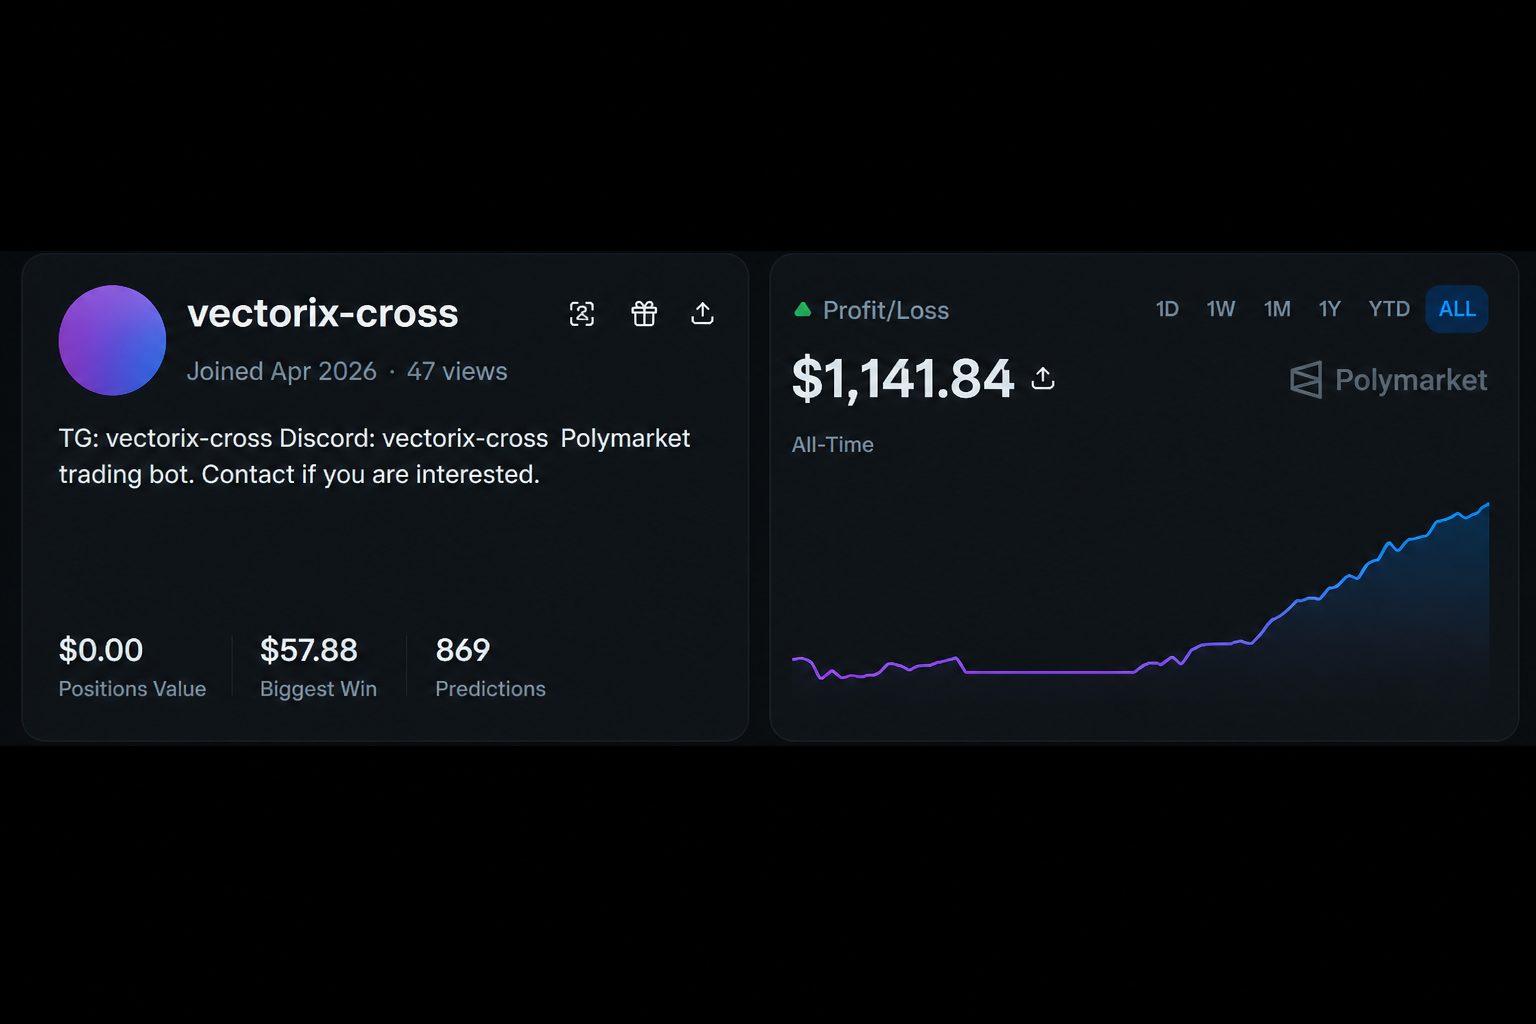
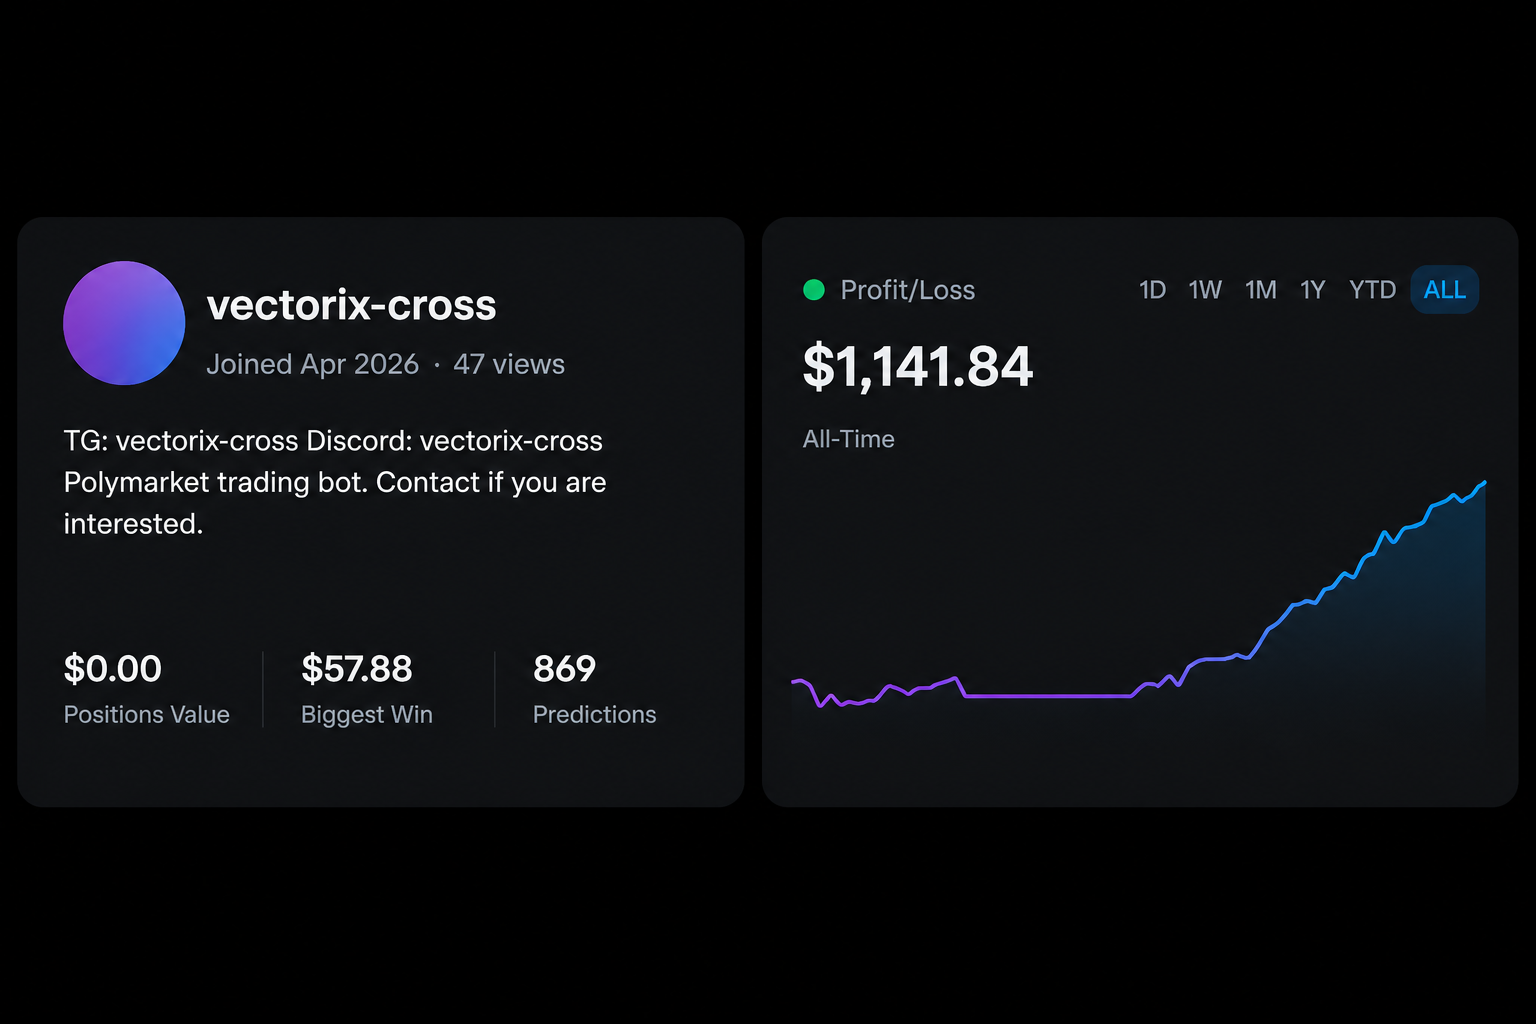
update-4

diff --git a/README.md b/README.md
@@ -33,13 +33,6 @@ If you want a custom strategy or a production deployment, contact Vectorix.
 
 Designed for arbitrage, directional strategies, and ultra-short-term markets (including 5-minute and 15-minute rounds), this bot framework provides a robust foundation for building and scaling automated trading strategies on Polymarket .
 
-## Demo Video
-
-
-<img width="628" height="416" alt="Vectorix Polymarket trading bot video" src="docs/assets/vectorix-video-thumb.png" />
-
-
-
 ## Paper engine (this repo)
 
 ```bash
@@ -134,7 +127,7 @@ With approximately $2,500 recommended starting capital, the bot is optimized for
 
 
 
-<img width="1536" height="1024" alt="polymarket Arbitrage Momentum bot" src="https://github.com/user-attachments/assets/90775627-4222-4d74-822e-1f295d1af12c" />
+<img width="1536" height="1024" alt="Vectorix Polymarket Arbitrage Momentum bot" src="docs/assets/vectorix-momentum.png" />
 
 <img width="300" height="160" alt="ma-bot-1" src="https://github.com/user-attachments/assets/12b6d8a2-cb71-4f53-a602-b495031166b4" />
 
@@ -146,13 +139,6 @@ With approximately $2,500 recommended starting capital, the bot is optimized for
 
 <img width="808" height="176" alt="ma-bot-5" src="https://github.com/user-attachments/assets/baea0866-ee90-4f77-ba10-364715979e85" />
 
-
----
-
-And you can watch this bot running video with this.
-
-
-<img width="1801" height="874" alt="Vectorix momentum arbitrage bot running" src="https://github.com/user-attachments/assets/8d2c7930-bdcd-4aaa-8a82-95bc33404ace" />
 
 ---
 
@@ -169,7 +155,7 @@ When a high-confidence reversal signal is detected, the bot automatically enters
 
 The goal is to capture short-term inefficiencies created by sudden market reversals while maintaining systematic, data-driven execution.
 
-<img width="1536" height="1024" alt="Polymarket Twap Reversal Bot" src="https://github.com/user-attachments/assets/b966db29-89f7-49a2-bad3-bc4cddb02425" />
+<img width="1536" height="1024" alt="Vectorix Polymarket Twap Reversal Bot" src="docs/assets/vectorix-twap.png" />
 
 
 
@@ -185,9 +171,9 @@ The goal is to capture short-term inefficiencies created by sudden market revers
 
 This Polymarket TWAP winning token sniper bot targets short-duration (5- and 15-minute) crypto prediction markets on Polymarket, sniping the high-probability winning token near resolution when the underlying asset has clearly moved away from the reference price. It confirms direction using both live spot price and Chainlink TWAP, estimates win probability, and only buys when the executable order-book price still offers positive expected edge after costs. Strict risk checks, data freshness validation, and latency-aware execution keep the strategy systematic rather than a simple “buy the winner” approach.
 
-<img width="1168" height="784" alt="polymarket-TWAP-Token-Sniper" src="https://github.com/user-attachments/assets/3e063383-e572-4543-9985-a132a26a6ca6" />
+<img width="1168" height="784" alt="Vectorix polymarket-TWAP-Token-Sniper" src="docs/assets/vectorix-sniper1.png" />
 
-<img width="1536" height="1024" alt="Polymarket TWAP Winning-Token Sniper Bot" src="https://github.com/user-attachments/assets/98f853b8-73a6-46cc-af83-939a7b8f5f0d" />
+<img width="1536" height="1024" alt="Vectorix Polymarket TWAP Winning-Token Sniper Bot" src="docs/assets/vectorix-sniper2.png" />
 
 ---
 ### Result Screenshot
@@ -202,12 +188,7 @@ This Polymarket TWAP winning token sniper bot targets short-duration (5- and 15-
 ## 4. Polymarket Endcycle Sniper bot (Introduction)
 
 Polymarket Endcycle Sniper Bot is an automated trading system designed to monitor short-duration prediction markets and execute high-probability trades near the end of each 5-minute epoch. It connects to the orderbook in real time, triggers buys when prices exceed a configured threshold (e.g., 0.95), manages risk with optional exits or hedging, and redeems winning positions automatically after market resolution. 🚀📈
-<img width="1098" height="728" alt="polymarket-endcycle-sniper-bot" src="https://github.com/user-attachments/assets/f2f83308-c9cd-4c71-9cf6-10fcbe8e1e63" />
-
-
-### Recording Video
-
-https://github.com/user-attachments/assets/b038aa3b-e42b-4f72-ac5d-a130cdb56a9f
+<img width="1098" height="728" alt="Vectorix polymarket-endcycle-sniper-bot" src="docs/assets/vectorix-endcycle.png" />
 
 ---
 ### Running Bot Screenshot
@@ -244,7 +225,7 @@ https://github.com/user-attachments/assets/b038aa3b-e42b-4f72-ac5d-a130cdb56a9f
 
 BTC Liquidity Momentum Arbitrage Bot is a Polymarket trading bot that monitors the BTC 5-minute Up/Down markets by analyzing real-time order book liquidity instead of relying only on price movements. It detects sudden shifts in buying or selling pressure using an order-book influence metric and confirms the signal with the difference between the live Bitcoin spot price and the market's strike price before placing its first trade (Buy1). After the initial order is filled, the bot immediately attempts to buy the opposite side (Buy2) at a calculated complementary price so the combined position costs about $0.95 while redeeming for $1.00 at market settlement. Rather than acting as a last-second sniper, This is a market microstructure strategy that exploits temporary liquidity imbalances and order-flow inefficiencies throughout most of the five-minute trading window.
 
-<img width="1536" height="1024" alt="BTC liquidity momentum bot" src="https://github.com/user-attachments/assets/a5179323-d92c-40a7-ba26-e9760012daba" />
+<img width="1536" height="1024" alt="Vectorix BTC liquidity momentum bot" src="docs/assets/vectorix-liq.png" />
 
 ### Result Screenshort
 
@@ -260,7 +241,7 @@ Polymarket BTC & ETH Hug Bot is a signal-driven trading system designed for shor
 
 The system combines real-time market monitoring, signal analysis, and automated execution to capture recurring market inefficiencies. Historical testing and live observations have demonstrated a consistently high win rate, making the bot a specialized framework for researching and trading momentum-driven prediction market opportunities.
 
-<img width="1536" height="1024" alt="Polymarket-BTC-ETH-HUG-Bot" src="https://github.com/user-attachments/assets/ebbc4c31-0587-4b25-889f-39b8f8825ed1" />
+<img width="1536" height="1024" alt="Vectorix Polymarket-BTC-ETH-HUG-Bot" src="docs/assets/vectorix-hug.png" />
 
 ### Result Screenshort
 
@@ -283,7 +264,7 @@ A trading bot for Polymarket’s 5-minute BTC markets that exploits the relation
 systematically capture inefficiencies, achieving a consistently high win rate under defined conditions.
 
 
-<img width="1024" height="683" alt="Polymarket-Trading-Bot-5m-price-field" src="https://github.com/user-attachments/assets/64bb8b58-8599-4bfd-962f-bbb9489ce519" />
+<img width="1024" height="683" alt="Vectorix Polymarket-Trading-Bot-5m-price-field" src="docs/assets/vectorix-pricefield.png" />
 
 ### Result Screenshort
 
@@ -305,7 +286,7 @@ Polymarket Sticky Trading Bot is an automated trading system that exploits short
 
 market signals (e.g., YES > 0.9) to identify lagging markets, executing trades that capture the rapid convergence as probabilities realign.
 
-<img width="1020" height="677" alt="Polymarket-Trading-Bot-Sticky" src="https://github.com/user-attachments/assets/41dcf35b-14dd-444d-9f87-fbb2ea6464da" />
+<img width="1020" height="677" alt="Vectorix Polymarket-Trading-Bot-Sticky" src="docs/assets/vectorix-sticky.png" />
 
 ## Result Screenshot
 
@@ -328,11 +309,7 @@ An open-source bot that automatically copies trades from top Polymarket traders 
 
 Whether you're new to prediction markets or you want to scale your copy-trading across multiple wallets, this bot is built to be **simple to run**, **transparent**, and **under your control**.
 
-<img width="1100" height="726" alt="polymarket-copy-trading-bot" src="https://github.com/user-attachments/assets/82243a0b-f4ec-47f0-b7cd-326e0b0e2a27" />
-
-### Recording Video
-
-https://github.com/user-attachments/assets/1bf1babc-8aa6-4be0-b1ec-4e193f52b965
+<img width="1100" height="726" alt="Vectorix polymarket-copy-trading-bot" src="docs/assets/vectorix-copy.png" />
 
 ---
 
@@ -341,7 +318,7 @@ https://github.com/user-attachments/assets/1bf1babc-8aa6-4be0-b1ec-4e193f52b965
 Polymarket Arbitrage Lost token Sniper bot automates a trading workflow on Polymarket short-interval markets (e.g., BTC/ETH/SOL/XRP 5-minute “up/down” epochs). It allocates capital into YES and NO positions, monitors order books in real time, and strategically exits the predicted losing side token before market resolution to optimize returns. The core edge lies in the model’s ability to accurately identify the losing token, enabling consistent profit capture when combined prices exceed $1.
 
 
-<img width="1082" height="718" alt="polymarket-trading-bot-lost-token-sniper" src="https://github.com/user-attachments/assets/a664f94a-ea48-4080-a3e3-972e295d27d1" />
+<img width="1082" height="718" alt="Vectorix polymarket-trading-bot-lost-token-sniper" src="docs/assets/vectorix-lost.png" />
 
 ### Result Screenshort
 <img width="804" height="447" alt="polymarket-trading-bot-lost-token-sniper" src="https://github.com/user-attachments/assets/0582e172-fea6-4986-af78-4d8ddc4c85d9" />
@@ -355,7 +332,7 @@ Polymarket Arbitrage Lost token Sniper bot automates a trading workflow on Polym
 ## 11. Polymarket Arbitrage Bot (101 cents Sniper) : (Introduction)
 
 Polymarket Arbitrage 101 Bot is a professional Polymarket liquidity maker bot designed for short-interval (e.g., 5-minute) binary markets, automating the full cycle of splitting USDC into YES/NO tokens, placing balanced limit orders, and dynamically managing positions in real time. It targets a consistent edge by structuring trades so each YES/NO pair aims to return a combined value of 1.01 (101 cents) per cycle, while applying adaptive adjustments and risk controls as market conditions evolve. Built for multi-chain compatibility and continuous 24/7 operation, it supports live, dry-run, and paper trading modes for both production use and safe strategy testing.
-<img width="1124" height="742" alt="Polymarket-trading-bot-arbitrage-101" src="https://github.com/user-attachments/assets/73737f09-ba30-4955-85a2-057e84b0ef3d" />
+<img width="1124" height="742" alt="Vectorix Polymarket-trading-bot-arbitrage-101" src="docs/assets/vectorix-arb101.png" />
 
 ### Result Screenshort
 
@@ -377,7 +354,7 @@ If you invest $100, you can earn average $190 to $220 per day on one chain, and 
 This Polymarket trading bot explores an automated volatility and probability arbitrage bot designed to identify pricing inefficiencies in prediction markets. Instead of predicting outcomes, the system exploits mispriced probabilities, market imbalances, and short-term volatility using quantitative models and automation. By combining high-frequency execution with strong risk management and hedging, the bot aims to capture small statistical edges and compound them over large trade volumes. 🚀
 
 
-<img width="1071" height="709" alt="Polymarket Arbitrage Bot dual side" src="https://github.com/user-attachments/assets/c40f12cc-a205-4091-a0f6-bdd443580943" />
+<img width="1071" height="709" alt="Vectorix Polymarket Arbitrage Bot dual side" src="docs/assets/vectorix-dual.png" />
 
 
 ### Result Screenshot
@@ -390,11 +367,7 @@ This Polymarket trading bot explores an automated volatility and probability arb
 This bot does not speculate on market direction.
 Instead, it captures spread by selling both YES and NO outcome tokens at prices whose combined value exceeds $1.
 The strategy focuses on market making, not directional trading.
-<img width="1098" height="727" alt="Polymarket Arbitrage Bot Ladder" src="https://github.com/user-attachments/assets/69f7c1d7-20c6-4b30-928b-5df382795c8a" />
-
-### Recording Video
-
-https://github.com/user-attachments/assets/7ba03ed4-f00d-4564-bf78-67c5159bb5c3
+<img width="1098" height="727" alt="Vectorix Polymarket Arbitrage Bot Ladder" src="docs/assets/vectorix-ladder.png" />
 
 ---
 ### Result Screenshot
@@ -408,7 +381,7 @@ Execution begins with the selective liquidation of the side offering the most fa
 
 This execution framework is underpinned by a robust risk management architecture and dynamic hedging mechanisms, enabling controlled exposure, reduced volatility, and consistent capital preservation. The overall design prioritizes efficient exits, minimized slippage, and stable, repeatable performance across varying market conditions.
 
-<img width="1024" height="681" alt="Polymarket Arbitrage Bot Stair Trading" src="https://github.com/user-attachments/assets/e8da9cfc-1d3e-4100-a014-d45697c11deb" />
+<img width="1024" height="681" alt="Vectorix Polymarket Arbitrage Bot Stair Trading" src="docs/assets/vectorix-stair.png" />
 
 
 ### Result Screenshot
@@ -419,7 +392,7 @@ This execution framework is underpinned by a robust risk management architecture
 
 Polymarket Momentum Trading Bot is an automated trading system designed for short-duration crypto prediction markets, using real-time momentum analysis, price inefficiency detection, and probabilistic signals to execute high-precision trades. The bot includes advanced risk management, dynamic position sizing, and hedge logic to minimize downside risk while targeting stable and consistent profitability.
 
-<img width="1394" height="911" alt="Polymarket Arbitrage Bot Momentum Trading" src="https://github.com/user-attachments/assets/b6421b12-aa3d-4ae8-9d53-245c4ca1a024" />
+<img width="1394" height="911" alt="Vectorix Polymarket Arbitrage Bot Momentum Trading" src="docs/assets/vectorix-mom2.png" />
 
 
 ### Result Screenshot
@@ -448,28 +421,8 @@ Vectorix maintains this repository as an open-source resource for:
 
 This repository contains multiple automated trading strategies for Polymarket prediction markets:
 
-<img width="1536" height="1024" alt="How to make the polymarket trading bot" src="https://github.com/user-attachments/assets/1c0d4f5a-20fe-47f5-8d6b-35ba0c3584c6" />
+<img width="1536" height="1024" alt="How to make the polymarket trading bot" src="docs/assets/vectorix-howto.png" />
 
-<img width="1024" height="1536" alt="How to trader make the profit in 2026" src="https://github.com/user-attachments/assets/63de867f-92e8-4b04-8a9b-a77f22146b61" />
-
-<img width="1070" height="710" alt="5min-polymarket-trading-bot2" src="https://github.com/user-attachments/assets/851edd70-e4b1-4e59-bc04-11562feab10d" />
-
-<img width="1306" height="1204" alt="polymarket-cascading-Trading-strategy" src="https://github.com/user-attachments/assets/b6b5ecb1-35bc-4428-8fb8-b4b0807db20c" />
-
-<img width="1536" height="1024" alt="BUILDING A HIGH-FREQUENCY EVENT-DRIVEN TRADING BOT FOR POLYMARKET" src="https://github.com/user-attachments/assets/6d07d69e-de1b-4c31-85a4-1216c11ac658" />
-
-<img width="1024" height="1536" alt="Polymarket-Latency-15min-arbitrage-bot" src="https://github.com/user-attachments/assets/37634721-0d07-4435-ad9d-79fec11f2d7e" />
-
-<img width="1536" height="1024" alt="Single-Based-polymarket-trading-bot" src="https://github.com/user-attachments/assets/f2b97e74-6abc-4197-b39f-93057fb82be7" />
-
-
-<img width="1536" height="1024" alt="polymarket 15min edge" src="https://github.com/user-attachments/assets/bd1ab902-625c-484a-94a2-7dca01bf9033" />
-
-<img width="1536" height="1024" alt="Polymarket Arbitrage Trading Bot" src="https://github.com/user-attachments/assets/da6fe2aa-7d8f-4468-9c2e-06fc5937d4e0" />
-
-<img width="1536" height="1024" alt="Polymarket trading bot market sleep" src="https://github.com/user-attachments/assets/21106581-8e39-4c07-8729-7473f5c23596" />
-
-<img width="1536" height="1024" alt="4min edge" src="https://github.com/user-attachments/assets/f9f8cfa8-a859-44a9-9c54-91d0b7fdc6b3" />
 
 
 
